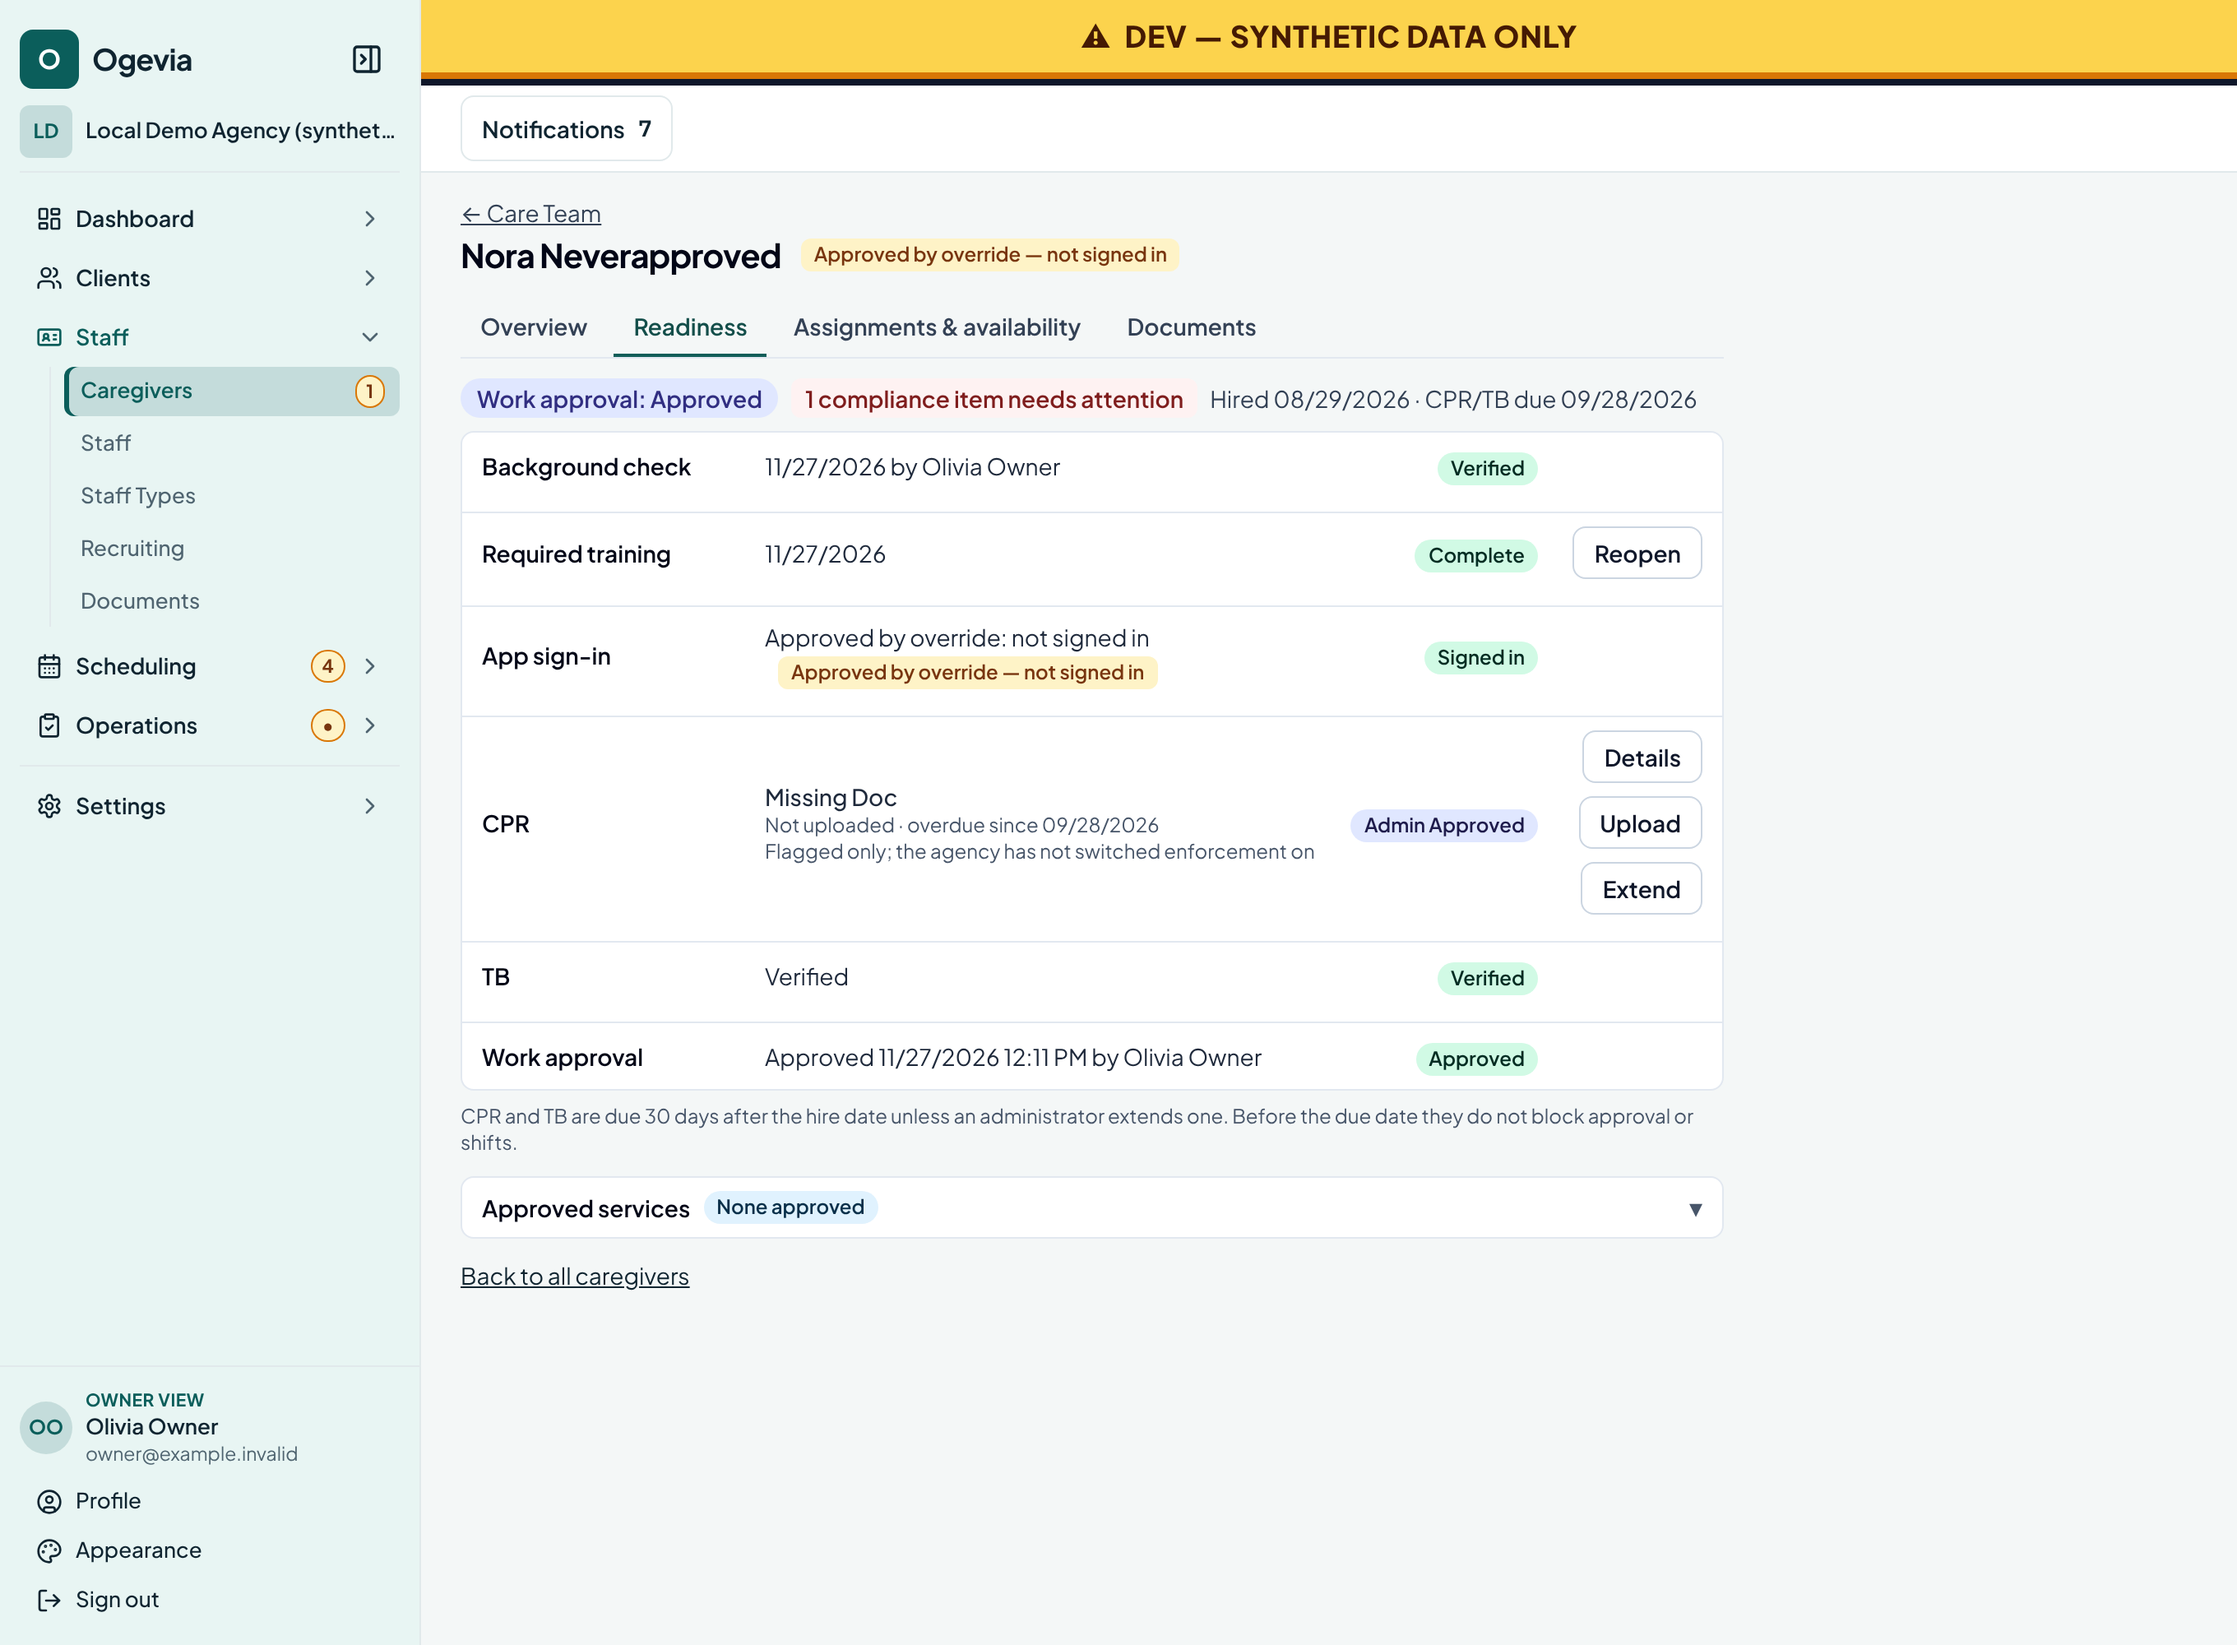
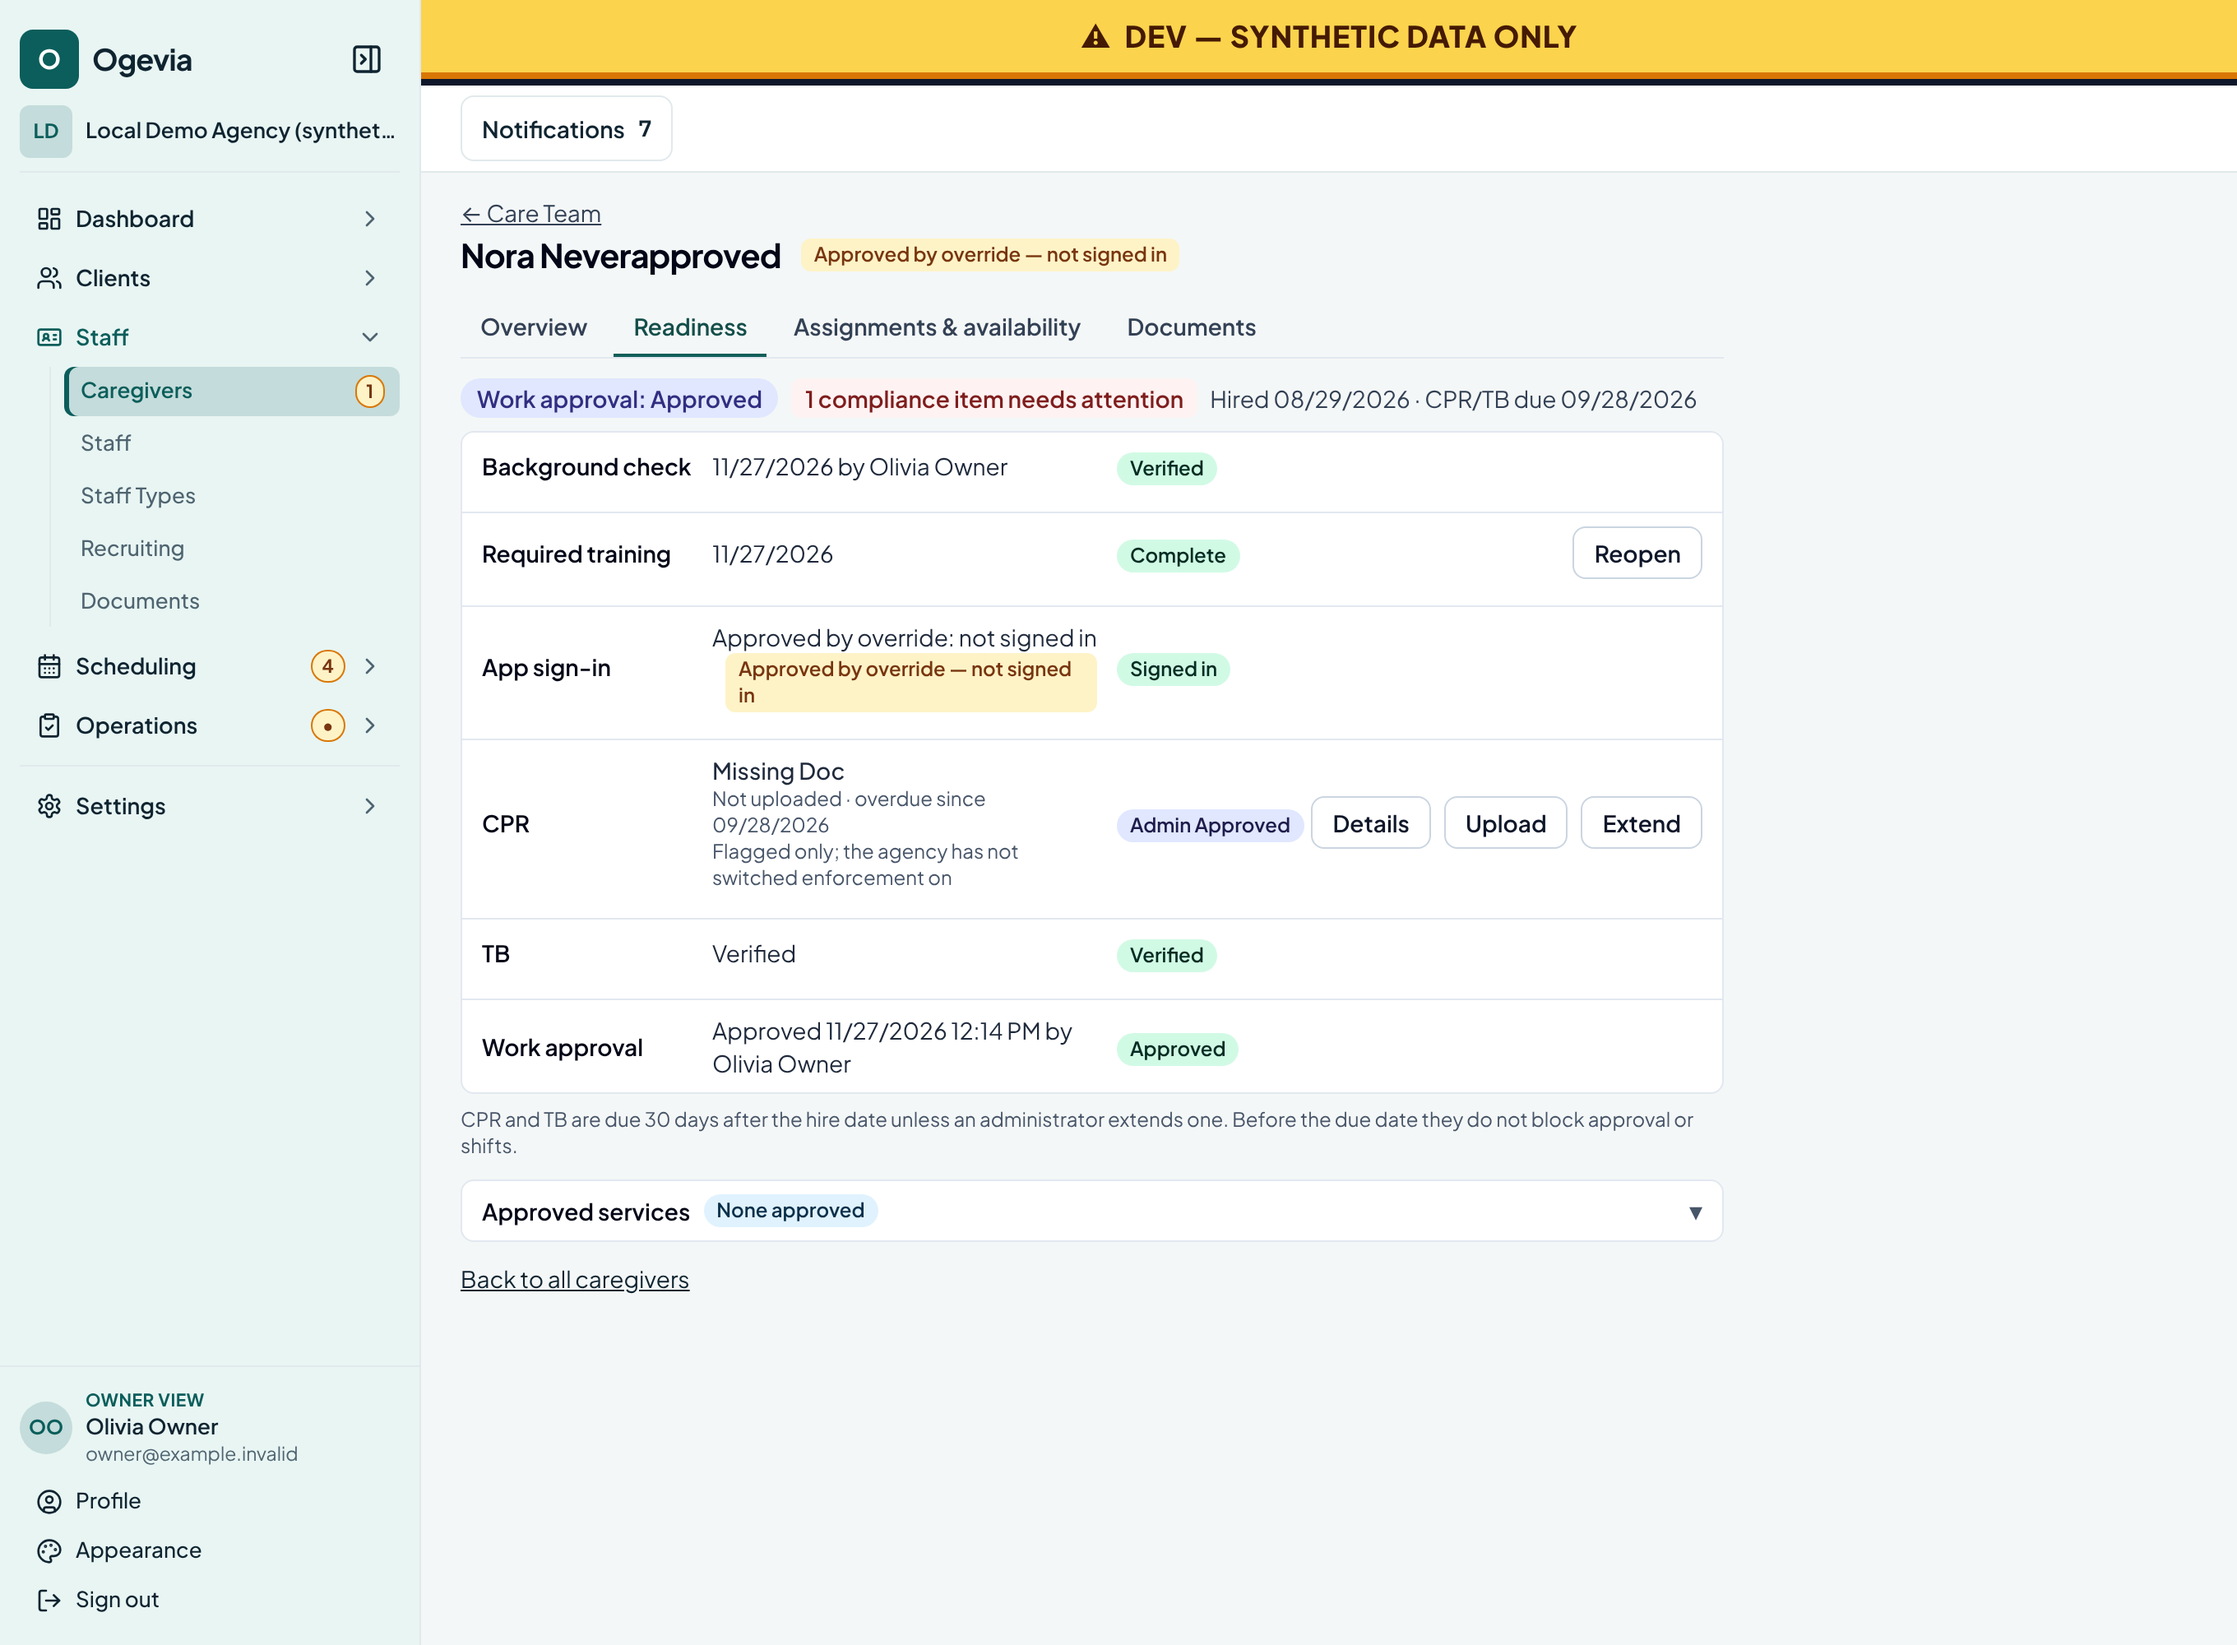
Re-pin the release guard to the 0123 code commit 72a51c0a; stage 7 audited commit
Claude-Session: https://claude.ai/code/session_01FCn44MdMzLt17AVSkrT1Tg

diff --git a/infra/aws/test/release-pins.test.ts b/infra/aws/test/release-pins.test.ts
@@ -11,7 +11,7 @@ const script = join(dir, "release_pins.py");
 const run = (...args: string[]) => spawnSync("python3", [script, ...args], { encoding: "utf8" });
 // The application commit the pins are validated against. Changed deliberately (2026-11-21) from 88426e8 (the release deployed to production as ef90a2a) to the web follow-up
 // the web follow-ups and minimal Offices (caregiver header without the staff ID; charts follow the Dashboard palette; offices, migration 0110, switch off). Any later application change must re-pin and update this line.
-const PINNED = "428cfaea24001fb1011d8019274efced3afad431";
+const PINNED = "72a51c0a8db1c3b881003d0384c5e4b3581e499e";
 const present = spawnSync("git", ["cat-file", "-e", `${PINNED}^{commit}`]).status === 0;
 
 describe.skipIf(!present)("release_pins.py", () => {
